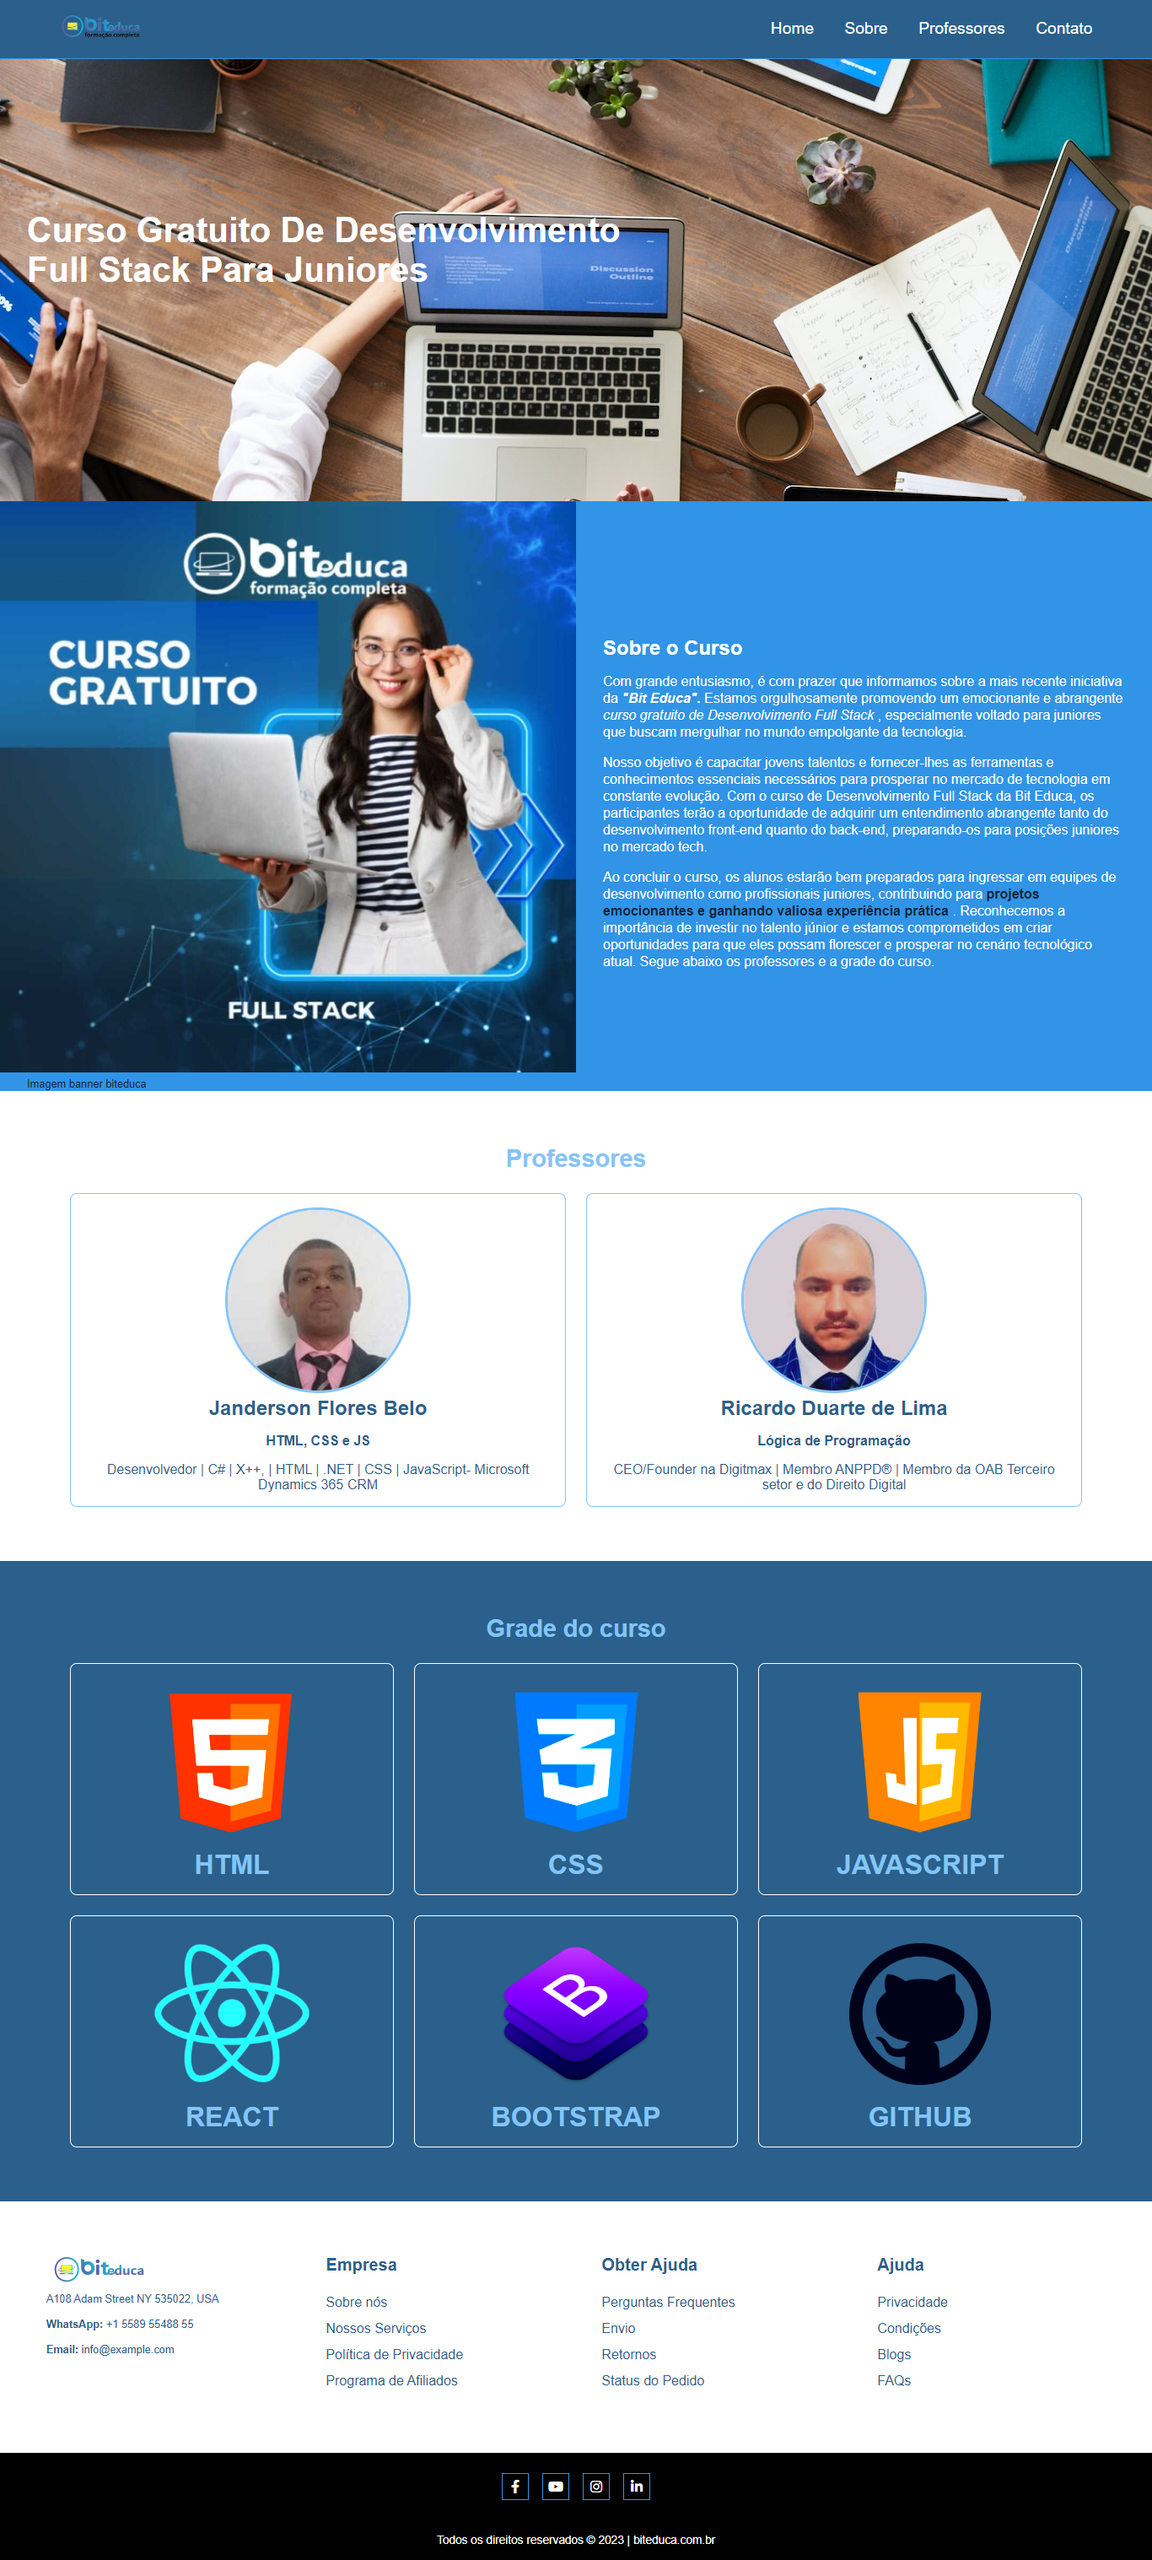
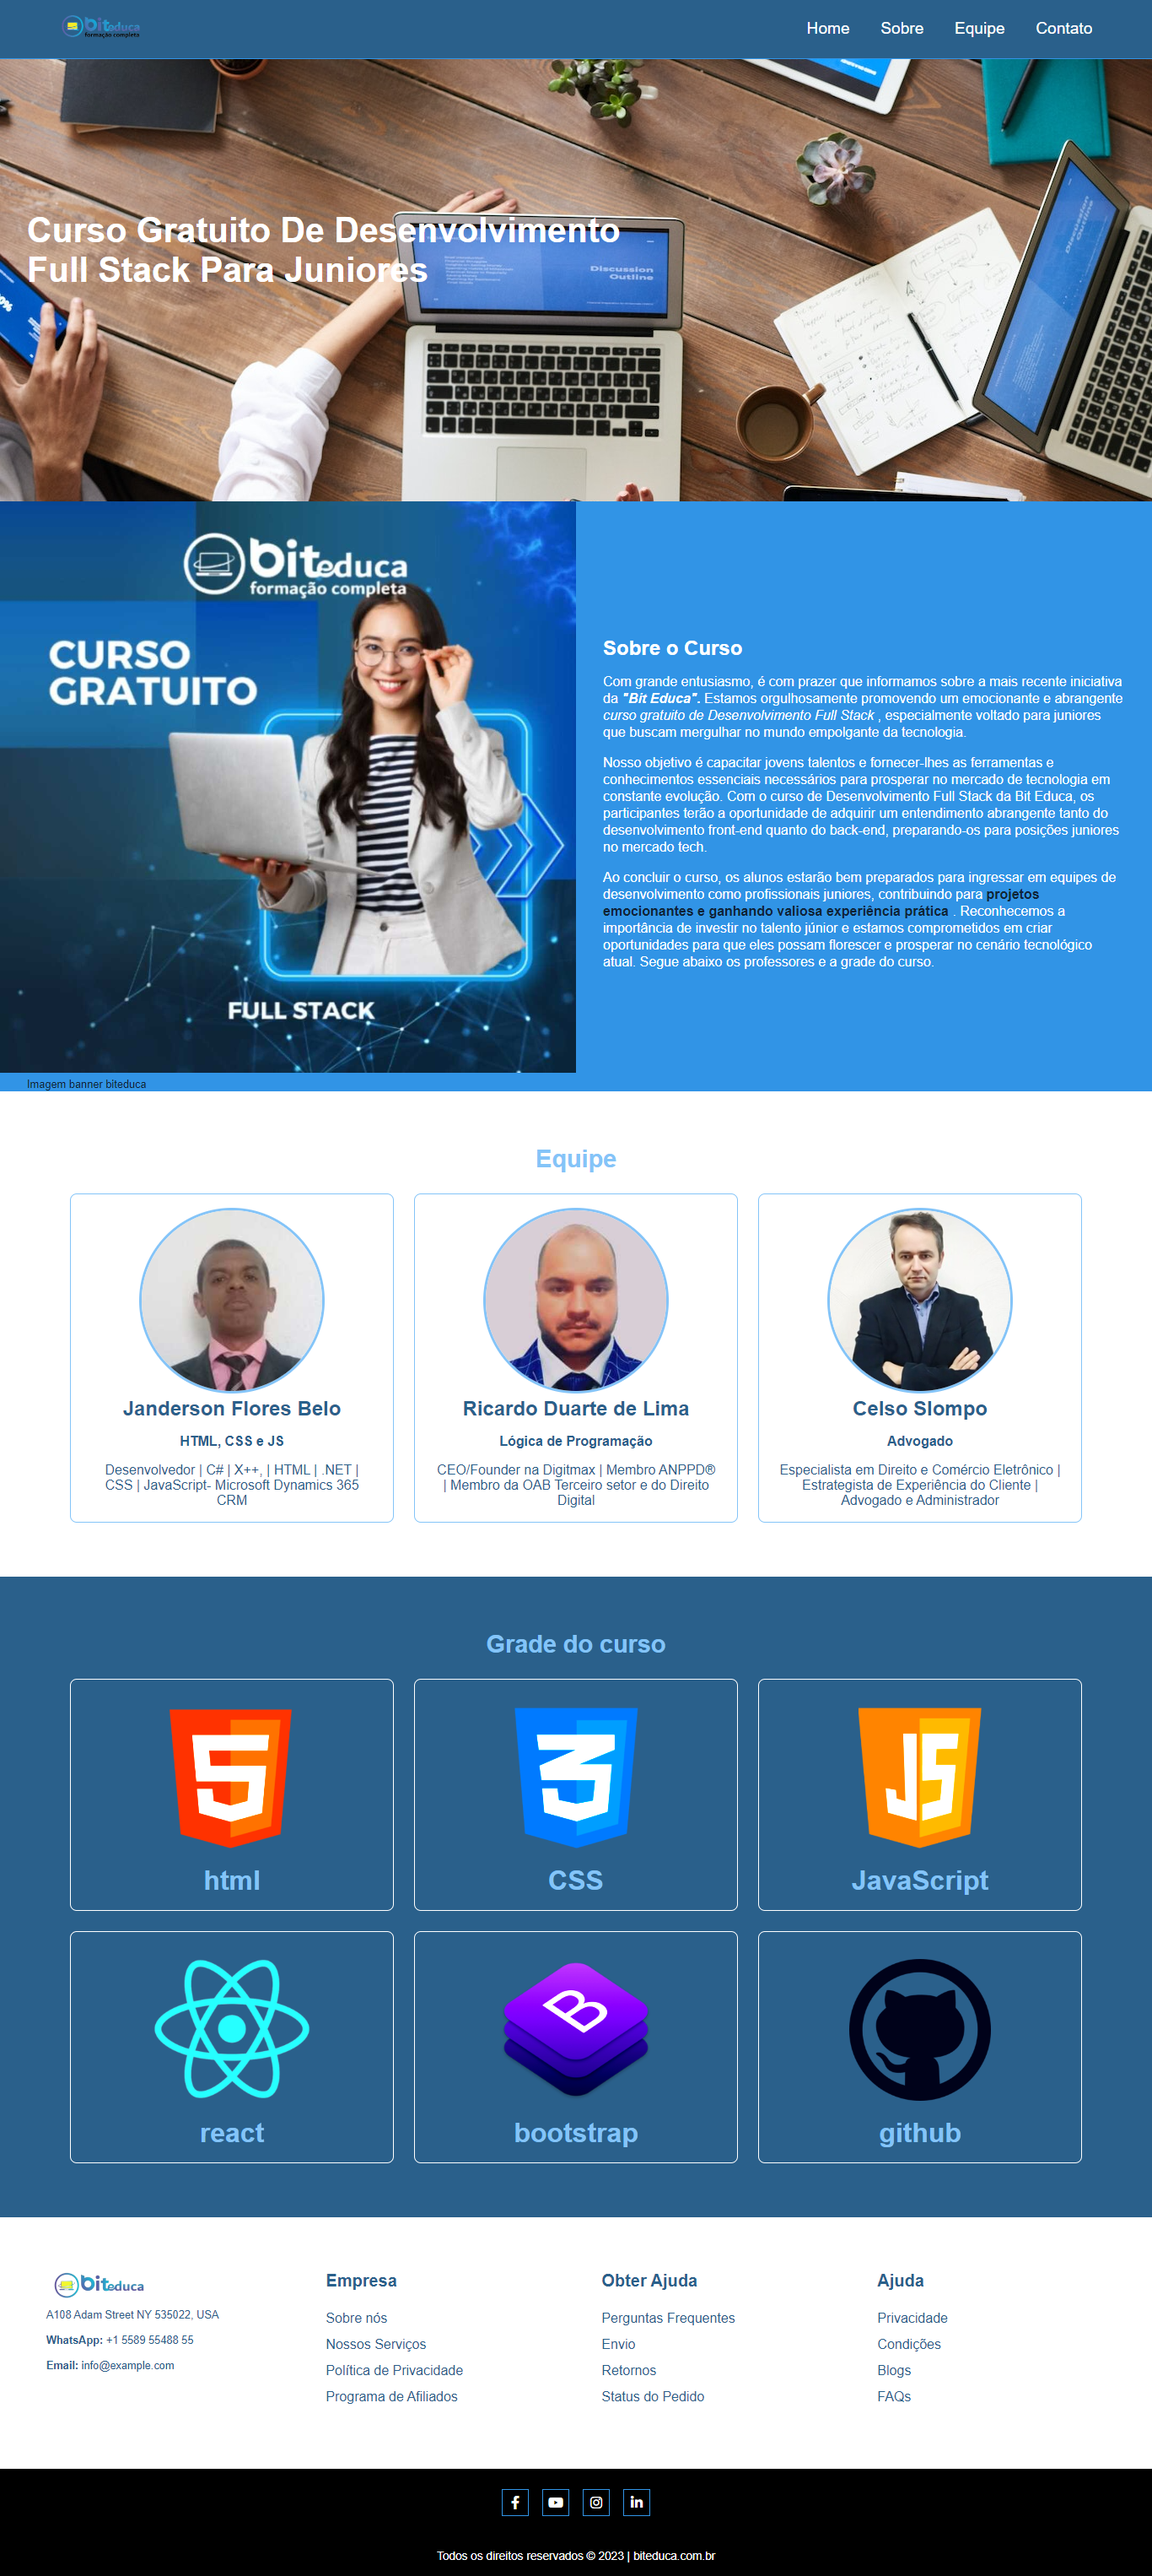
updated page

diff --git a/index.html b/index.html
@@ -23,7 +23,7 @@
       <nav class="navbar">
         <a href="#home">Home</a>
         <a href="#sobre">Sobre</a>
-        <a href="#team">Professores</a>
+        <a href="#team">Equipe</a>
         <a href="#contato">Contato</a>
       </nav>
       <div id="menu-btn" class="fas fa-bars"></div>
@@ -89,7 +89,7 @@
 
     <!-- Section Teachers -->
     <section class="post-1" id="team">
-      <h3 class="heading-1">Professores</h3>
+      <h3 class="heading-1">Equipe</h3>
       <div class="post-container-1">
         <div class="post-box-1">
           <div class="img-box-1">
@@ -113,39 +113,24 @@
             setor e do Direito Digital
           </p>
         </div>
-        <!-- <div class="post-box-1">
-          <div class="img-box-1">
-            <img src="image/avatar.png" alt="Imagem do avatar1" />
-          </div>
-          <span>Avatar2</span>
-        </div>
         <div class="post-box-1">
           <div class="img-box-1">
-            <img src="image/avatar.png" alt="Imagem do avatar2" />
+            <img src="image/celso-slompo.jpg" alt="Imagem do Celso" />
           </div>
-          <span>Avatar2</span>
+          <span>Celso Slompo</span>
+          <h4>Advogado</h4>
+          <p>
+            Especialista em Direito e Comércio Eletrônico | Estrategista de
+            Experiência do Cliente | Advogado e Administrador
+          </p>
         </div>
-        <div class="post-box-1">
-          <div class="img-box-1">
-            <img src="image/avatar.png" alt="Imagem do avatar3" />
-          </div>
-          <span>Avatar2</span>
-        </div>
-        <div class="post-box-1">
-          <div class="img-box-1">
-            <img src="image/avatar.png" alt="Imagem do avatar4" />
-          </div>
-          <span>Avatar2</span>
-        </div> -->
       </div>
     </section>
 
     <!-- Section cards -->
     <section class="post">
       <h3 class="title2">Grade do curso</h3>
-      <div class="post-container">
-        
-      </div>
+      <div class="post-container"></div>
     </section>
 
     <section class="footer-1" id="contato">
@@ -202,7 +187,12 @@
       <div class="social">
         <a href="" target="_blank" class="fa-brands fa-facebook-f"> </a>
         <a href="" target="_blank" class="fa-brands fa-youtube"> </a>
-        <a href="https://www.instagram.com/biteducacursos/ " target="_blank" class="fa-brands fa-instagram"> </a>
+        <a
+          href="https://www.instagram.com/biteducacursos/ "
+          target="_blank"
+          class="fa-brands fa-instagram"
+        >
+        </a>
         <a
           href="https://www.linkedin.com/in/bit-educa-553647280/ "
           target="_blank"

diff --git a/css/teachers.css b/css/teachers.css
@@ -11,6 +11,8 @@
   flex-wrap: wrap;
   align-items: center;
   justify-content: center;
+  /* display: grid;
+  grid-template-columns: repeat(auto-fit,minmax(20rem,auto)); */
   max-width: 1200px;
   gap: 1.5rem;
   margin: 0 auto;
